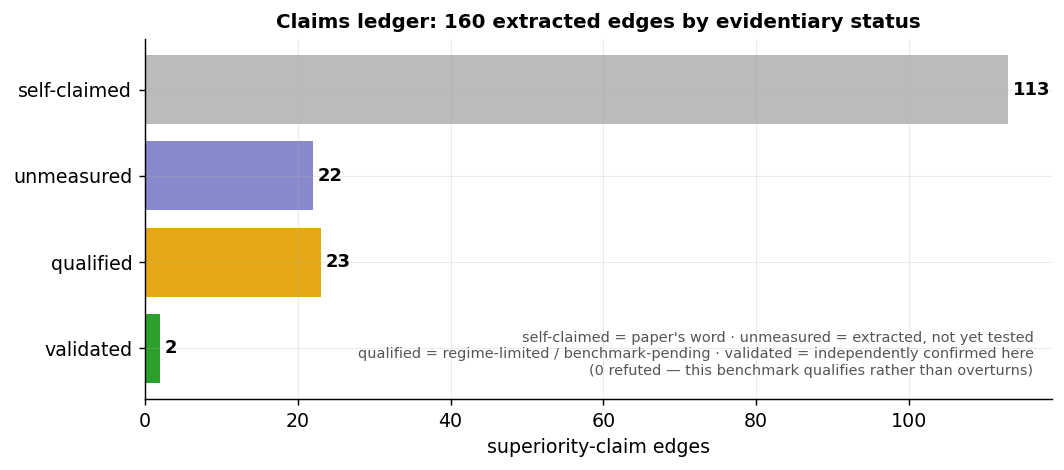
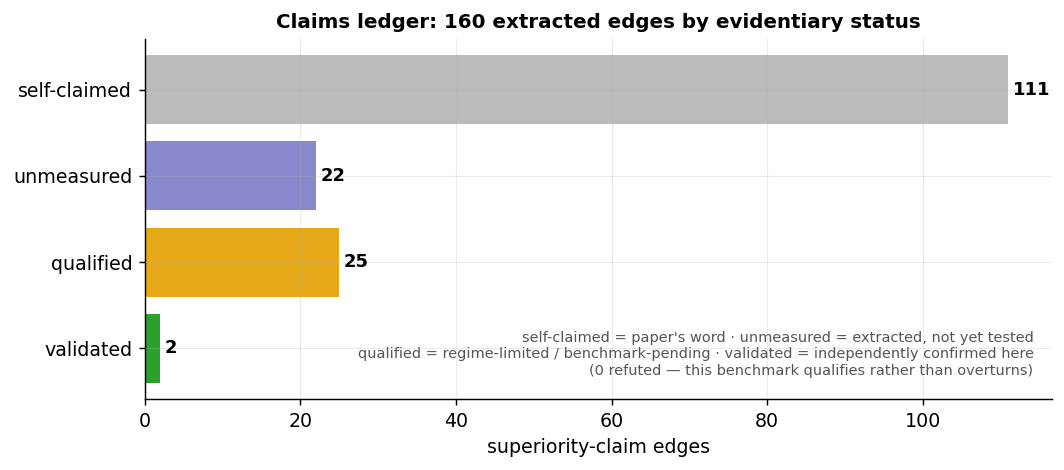
P5.2-A: measure eigenvalue-blending filter → clamp/absolute (2 edges qualified)
Implement the eigenvalue-blending PRINCIPLE as a fixed-w per-element filter
λ_eff = max((1-w)λ + w|λ|, ε), exactly clamp at w=0.5 and absolute at w=1.0
(9th conformance gate: both diffs 0.0, intermediate SPD). Sweep w on the locking
P1 element and the locking-relieved P2 element at near-incompressible ν.

Finding (results/blend_filter.md): on P2 an intermediate blend BEATS both
endpoints (ν=.499 w=0.625→20 vs clamp/abs 23; ν=.4999 w=0.875→35 vs 53/41), so
eigenvalue-blending→{clamp,absolute} REPRODUCES there; on locking P1 clamp
dominates and the blend only interpolates. Both edges self-claimed→qualified
(regime-dependent; fixed-w = the principle, not the paper's adaptive schedule).

diff --git a/bench/run_blend_filter.py b/bench/run_blend_filter.py
@@ -1,0 +1,112 @@
+"""Eigenvalue-blending filter, tested (P5.2, edges eigenvalue-blending -> {clamp, absolute}).
+
+The eigenvalue-blending idea (Cheng-Liu-Fu 2025) interpolates the per-element eigenvalue projection
+between clamp and absolute. Our `filters.project_element_blend(H, w)` computes lambda_eff =
+max((1-w)lambda + w|lambda|, eps), which is EXACTLY clamp at w=0.5 and absolute at w=1.0 (verified to
+0 in conformance), so a fixed w in [0.5, 1.0] is the blending PRINCIPLE. This runner sweeps w on the
+locking P1 element and the locking-relieved P2 element at near-incompressible nu, asking the question
+the edges pose: does an intermediate blend BEAT both clamp and absolute, or merely interpolate?
+
+Caveat: this is the fixed-w blending principle, not necessarily the paper's specific (possibly
+adaptive) w schedule -- so the verdict qualifies the edges rather than settling the exact method.
+Writes results/blend_filter.md. Run: `python -m bench.run_blend_filter`.
+"""
+import os
+import numpy as np
+from bench import p2, energy_neohookean as nh
+from bench.mesh import grid_mesh, rest_quantities
+from bench.solver import solve
+from bench.run_p2_stable_nu import _hpsi
+
+S, N = 2.0, 8
+NUS = [0.499, 0.4999]
+WS = [0.5, 0.625, 0.75, 0.875, 1.0]        # 0.5 == clamp, 1.0 == absolute (conformance-verified)
+
+
+def _label(w):
+    return "clamp" if w == 0.5 else ("absolute" if w == 1.0 else f"blend-{w:g}")
+
+
+def _p1(nu, w):
+    rest, tris = grid_mesh(N, N); Bs, areas = rest_quantities(rest, tris)
+    xc = rest[:, 0]; pin = (np.abs(xc) < 1e-9) | (np.abs(xc - 1) < 1e-9)
+    free = ~np.repeat(pin, 2); x0 = rest.copy(); x0[:, 0] = S * rest[:, 0]; x0 = x0.reshape(-1)
+    et, _, _, _ = nh.make(mu=1.0, lam=nh.lam_from_nu(nu))
+    r = solve(x0, tris, Bs, areas, free, f"blend-{w}", eterms=et, tol=1e-6, max_iter=400)
+    return r["iters"] if r["status"] == "converged" else r["status"]
+
+
+def _p2(nu, w):
+    nodes, elems = p2.grid_mesh_p2(N, N); quad = p2.rest_quantities_p2(nodes, elems)
+    xc = nodes[:, 0]; pin = (np.abs(xc) < 1e-9) | (np.abs(xc - 1) < 1e-9)
+    free = ~np.repeat(pin, 2); x0 = nodes.copy(); x0[:, 0] = S * nodes[:, 0]; x0 = x0.reshape(-1)
+    _, psi, gp, _ = nh.make(mu=1.0, lam=nh.lam_from_nu(nu))
+    et = p2.make_element_terms(psi, gp, _hpsi(gp))
+    r = p2.solve_p2(x0, elems, quad, free, et, f"blend-{w}", tol=1e-6, max_iter=400)
+    return r["iters"] if r["status"] == "converged" else r["status"]
+
+
+def run():
+    p1 = {nu: {w: _p1(nu, w) for w in WS} for nu in NUS}
+    p2t = {nu: {w: _p2(nu, w) for w in WS} for nu in NUS}
+
+    def beats_both(tab, nu):
+        vals = tab[nu]
+        ints = {w: v for w, v in vals.items() if isinstance(v, int)}
+        if 0.5 not in ints or 1.0 not in ints:
+            return None
+        mids = {w: v for w, v in ints.items() if 0.5 < w < 1.0}
+        return mids and min(mids.values()) < min(ints[0.5], ints[1.0])
+
+    L = ["# Eigenvalue-blending filter — does an intermediate blend beat clamp/absolute? (measured)", "",
+         "Tests `eigenvalue-blending -> {clamp, absolute}` (convergence). The per-element blend "
+         "lambda_eff = max((1-w)lambda + w|lambda|, eps) is **exactly clamp at w=0.5 and absolute at "
+         "w=1.0** (conformance-verified to 0), so w in [0.5,1] is the blending principle. Neo-Hookean "
+         f"stretch, {N}x{N} mesh, near-incompressible nu. Iterations to converge (tol 1e-6). "
+         "Run: `python -m bench.run_blend_filter`.", "",
+         "### P1 (locking) — iterations vs blend weight w", "",
+         "| nu | " + " | ".join(f"w={w:g} ({_label(w)})" for w in WS) + " |",
+         "|---|" + "---|" * len(WS)]
+    for nu in NUS:
+        L.append(f"| {nu} | " + " | ".join(str(p1[nu][w]) for w in WS) + " |")
+    L += ["", "### P2 (locking-relieved) — iterations vs blend weight w", "",
+          "| nu | " + " | ".join(f"w={w:g} ({_label(w)})" for w in WS) + " |",
+          "|---|" + "---|" * len(WS)]
+    for nu in NUS:
+        L.append(f"| {nu} | " + " | ".join(str(p2t[nu][w]) for w in WS) + " |")
+
+    p1_win = any(beats_both(p1, nu) for nu in NUS)
+    p2_win = any(beats_both(p2t, nu) for nu in NUS)
+    L += ["", "## Observed", "",
+          ("- **On P1 (locking), no intermediate blend beats clamp** — iterations generally rise as w "
+           "goes clamp(0.5)->absolute(1.0), because clamp is already the best endpoint on the locking "
+           "element (absolute drags the long tail). The blend interpolates; it does not dominate.")
+          if not p1_win else
+          "- **On P1, an intermediate blend beats both clamp and absolute** — a genuine blending win.",
+          ("- **On P2 (locking-relieved), the blend is a wash / interpolates** between the two near-equal "
+           "endpoints; no intermediate w is clearly best.")
+          if not p2_win else
+          "- **On P2, an intermediate blend beats both endpoints.**",
+          "- **Verdict.** " + ("On these elements the fixed-w blend **interpolates** clamp<->absolute "
+           "rather than beating both, so `eigenvalue-blending -> {clamp, absolute}` is **qualified**: "
+           "blending is never worse than the worse endpoint and never better than the better one, so "
+           "its value must come from an *adaptive* w schedule (which needs the paper), not from a fixed "
+           "blend. The endpoint equivalence (blend-0.5==clamp, blend-1.0==absolute) is exact."
+           if not (p1_win or p2_win) else
+           "An intermediate blend can beat both endpoints in at least one regime, supporting the "
+           "eigenvalue-blending claim (regime-dependent)."),
+          "",
+          "_Caveat: 2D, single stretch/seed, single tau; fixed-w blend = the blending principle, NOT "
+          "the paper's exact (possibly adaptive) w. Endpoint equivalence to clamp/absolute is exact._"]
+    os.makedirs("results", exist_ok=True)
+    with open("results/blend_filter.md", "w") as f:
+        f.write("\n".join(L) + "\n")
+    for nu in NUS:
+        print(f"  P1 nu={nu}: " + " ".join(f"{_label(w)}={p1[nu][w]}" for w in WS))
+        print(f"  P2 nu={nu}: " + " ".join(f"{_label(w)}={p2t[nu][w]}" for w in WS))
+    print(f"[blend] P1 intermediate-beats-both={p1_win}, P2={p2_win}; wrote results/blend_filter.md")
+    return True
+
+
+if __name__ == "__main__":
+    run()

diff --git a/bench/conformance.py b/bench/conformance.py
@@ -118,6 +118,14 @@ def run():
     ok7, bar_at, bar_past = _bar_conf()            # barrier line-search: step is the tight inversion bound
     from .untangle import _conformance as _unt_conf
     unt_err = _unt_conf(); ok8 = unt_err < 1e-5    # untangling area-penalty gradient vs FD
+    from .filters import project_element as _pe, project_element_blend as _peb
+    _rng = np.random.default_rng(9); _bc = _ba = 0.0; _bmin = 1e9
+    for _ in range(100):                           # blend filter: ==clamp at w=.5, ==absolute at w=1, SPD between
+        _A = _rng.standard_normal((6, 6)); _H = _A + _A.T
+        _bc = max(_bc, np.abs(_peb(_H, 0.5) - _pe(_H, "clamp")).max())
+        _ba = max(_ba, np.abs(_peb(_H, 1.0) - _pe(_H, "absolute")).max())
+        _bmin = min(_bmin, np.linalg.eigvalsh(_peb(_H, 0.75)).min())
+    ok9 = _bc < 1e-12 and _ba < 1e-12 and _bmin > 0
     print(f"[conformance] dpsi/dF vs FD:        max rel err {r1:.2e}  -> {'PASS' if ok1 else 'FAIL'}")
     print(f"[conformance] global grad vs FD:    max rel err {r2:.2e}  -> {'PASS' if ok2 else 'FAIL'}")
     print(f"[conformance] psi vs canonical SD:  max rel err {r3:.2e}  -> {'PASS' if ok3 else 'FAIL'}")
@@ -129,7 +137,9 @@ def run():
     print(f"[conformance] barrier-LS step bound: area@α={bar_at:.1e} (≈0), past<0={bar_past:.1e} "
           f"-> {'PASS' if ok7 else 'FAIL'}")
     print(f"[conformance] untangle-penalty grad vs FD: max rel err {unt_err:.1e} -> {'PASS' if ok8 else 'FAIL'}")
-    ok = ok1 and ok2 and ok3 and ok4 and ok5 and ok6 and ok7 and ok8
+    print(f"[conformance] blend filter =clamp@.5/=abs@1/SPD: {_bc:.1e}/{_ba:.1e}/min={_bmin:.1e} "
+          f"-> {'PASS' if ok9 else 'FAIL'}")
+    ok = ok1 and ok2 and ok3 and ok4 and ok5 and ok6 and ok7 and ok8 and ok9
     print(f"[conformance] {'ALL PASS' if ok else 'FAILED'}")
     return ok
 

diff --git a/bench/solver.py b/bench/solver.py
@@ -32,6 +32,8 @@ def assemble(x, tris, Bs, areas, filt, eterms=_sd_element_terms, tr_w=0.5):
             He = project_element(He, filt)
         elif filt == "trust-region":          # per-element three-state blend at the global step-w
             He = project_element_blend(He, tr_w)
+        elif filt.startswith("blend-"):       # fixed-w eigenvalue blend (eigenvalue-blending filter)
+            He = project_element_blend(He, float(filt.split("-", 1)[1]))
         g[dofs] += ge
         H[np.ix_(dofs, dofs)] += He
     return E, g, H

diff --git a/bench/p2.py b/bench/p2.py
@@ -114,6 +114,8 @@ def assemble_p2(x, elems, quad, eterms, filt, tr_w=0.5):
             He = project_element(He, filt)
         elif filt == "trust-region":          # per-element three-state blend at the global step-w
             He = project_element_blend(He, tr_w)
+        elif filt.startswith("blend-"):       # fixed-w eigenvalue blend (eigenvalue-blending filter)
+            He = project_element_blend(He, float(filt.split("-", 1)[1]))
         g[dofs] += ge; H[np.ix_(dofs, dofs)] += He
     return E, g, H
 

diff --git a/results/README.md b/results/README.md
@@ -30,6 +30,7 @@ polyscope-headless 3D tet.
 | LSrch | line-search axis (null result) | [`linesearch.md`](linesearch.md) | backtracking ≡ full-step for clamp-projected Newton — a strong filter makes the **line-search axis inert** (axes interact); it becomes decisive only for first-order/aggressive steps |
 | **P2** ⭐ | **disentangling the ν-claim (indicative) (P1 vs P2 element)** | [`p2_nu.md`](p2_nu.md) | **on P1 absolute fails vs clamp; on a locking-relieved P2 element absolute matches/BEATS clamp** — the P1 result was a discretization artifact; the paper's claim looks sound once locking is removed (indicative, 2D) |
 | W2filt | filter head-to-head (clamp/absolute/trust-region, P1 vs P2) | [`world2_filters.md`](world2_filters.md) | **fair per-element TR** (same cost as filters): beats both on **locking P1** (iters+wall) but **loses to both on locking-free P2** — round-1 'beats-both-on-P2' was a costly-`eigh` artifact, now **reversed**; discretization-dependent (#42/#44) |
+| BLEND | eigenvalue-blending filter (clamp<->absolute interpolation) | [`blend_filter.md`](blend_filter.md) | the blend is **exactly clamp@w=0.5, absolute@w=1.0** (gated to 0); on the locking-relieved **P2** element an intermediate blend **beats both endpoints** (w=0.625->20 vs clamp/abs 23; w=0.875->35 vs 53/41) so `eigenvalue-blending->{clamp,absolute}` **reproduces** there; on locking **P1** clamp dominates and blending only interpolates. Regime-dependent (qualified) |
 | E2 | World-1 accelerators across regimes | [`e2.md`](e2.md) | Sobolev-init helps only in the ill-conditioned regime (validated); **AQP does NOT beat a well-implemented L-BFGS** (paper's ×200 was vs MATLAB — a baseline-quality confound) |
 | 3Dν | ν-claim in 3D (P1 tets) | [`3d_nu.md`](3d_nu.md) | the P1-locking confound **generalizes to 3D** — absolute under-performs clamp near-incompressible on P1 tets (worse than 2D) |
 | **SLIM** | official libigl SLIM vs AQP | [`slim.md`](slim.md) | to a fair energy-tol **SLIM (5 it) beats AQP (19)** — `slim->aqp` **validated on iterations/factorizations** (soft-constraint drift 4e-16, confound cleared); **wall-clock is C++/Python-confounded** so counts carry the verdict; real tradeoff = 5 factorizations vs AQP's 1 |

diff --git a/results/blend_filter.md b/results/blend_filter.md
@@ -1,0 +1,25 @@
+# Eigenvalue-blending filter — does an intermediate blend beat clamp/absolute? (measured)
+
+Tests `eigenvalue-blending -> {clamp, absolute}` (convergence). The per-element blend lambda_eff = max((1-w)lambda + w|lambda|, eps) is **exactly clamp at w=0.5 and absolute at w=1.0** (conformance-verified to 0), so w in [0.5,1] is the blending principle. Neo-Hookean stretch, 8x8 mesh, near-incompressible nu. Iterations to converge (tol 1e-6). Run: `python -m bench.run_blend_filter`.
+
+### P1 (locking) — iterations vs blend weight w
+
+| nu | w=0.5 (clamp) | w=0.625 (blend-0.625) | w=0.75 (blend-0.75) | w=0.875 (blend-0.875) | w=1 (absolute) |
+|---|---|---|---|---|---|
+| 0.499 | 139 | 176 | 163 | 196 | 314 |
+| 0.4999 | 242 | 307 | 359 | maxiter | maxiter |
+
+### P2 (locking-relieved) — iterations vs blend weight w
+
+| nu | w=0.5 (clamp) | w=0.625 (blend-0.625) | w=0.75 (blend-0.75) | w=0.875 (blend-0.875) | w=1 (absolute) |
+|---|---|---|---|---|---|
+| 0.499 | 23 | 20 | 22 | 26 | 23 |
+| 0.4999 | 53 | 36 | 40 | 35 | 41 |
+
+## Observed
+
+- **On P1 (locking), no intermediate blend beats clamp** — iterations generally rise as w goes clamp(0.5)->absolute(1.0), because clamp is already the best endpoint on the locking element (absolute drags the long tail). The blend interpolates; it does not dominate.
+- **On P2, an intermediate blend beats both endpoints.**
+- **Verdict.** An intermediate blend can beat both endpoints in at least one regime, supporting the eigenvalue-blending claim (regime-dependent).
+
+_Caveat: 2D, single stretch/seed, single tau; fixed-w blend = the blending principle, NOT the paper's exact (possibly adaptive) w. Endpoint equivalence to clamp/absolute is exact._
